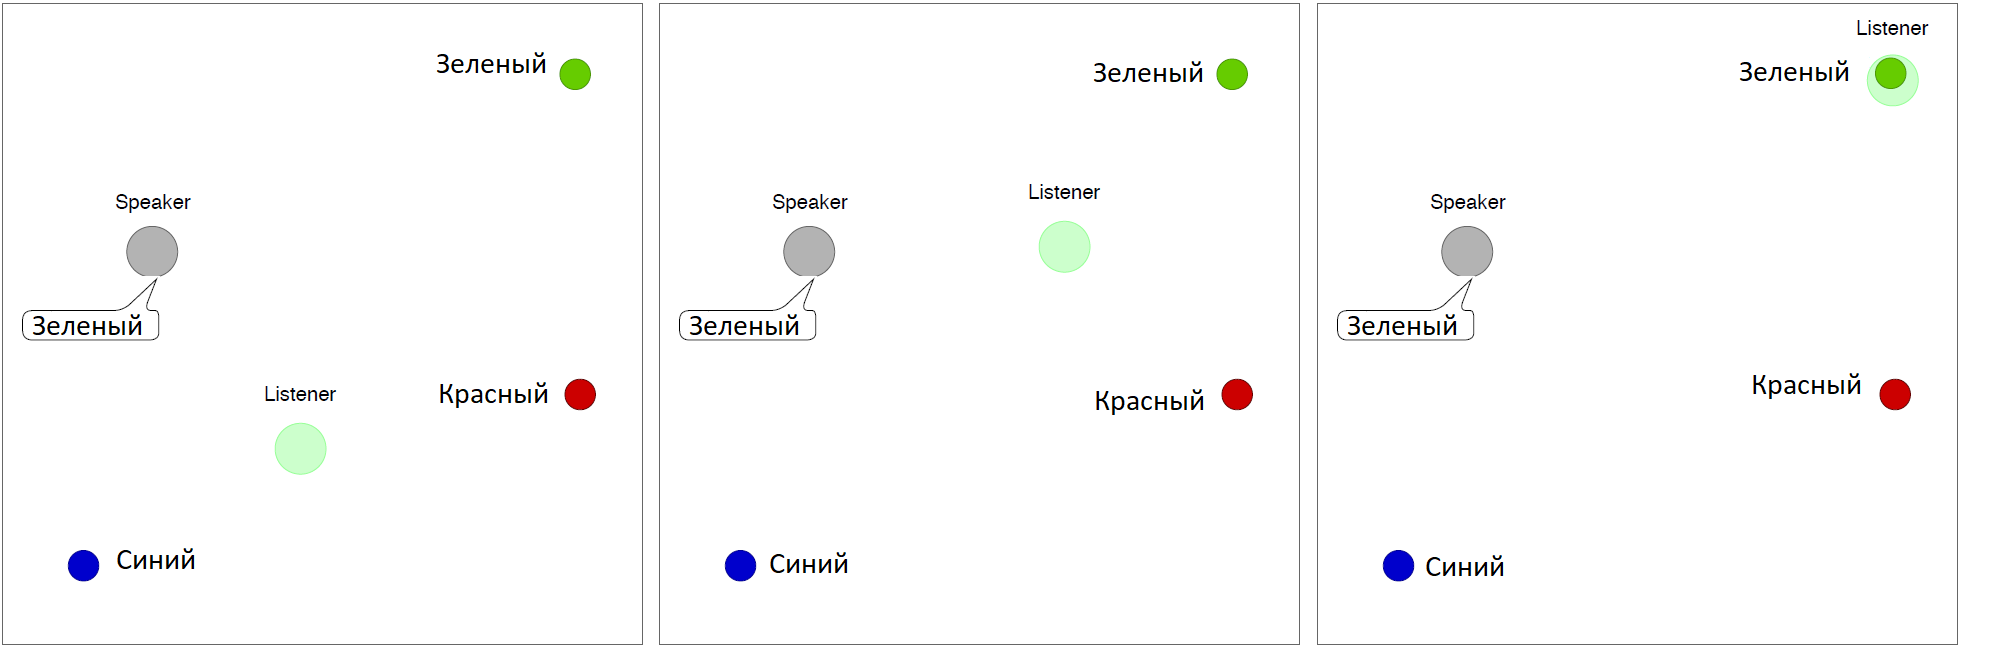
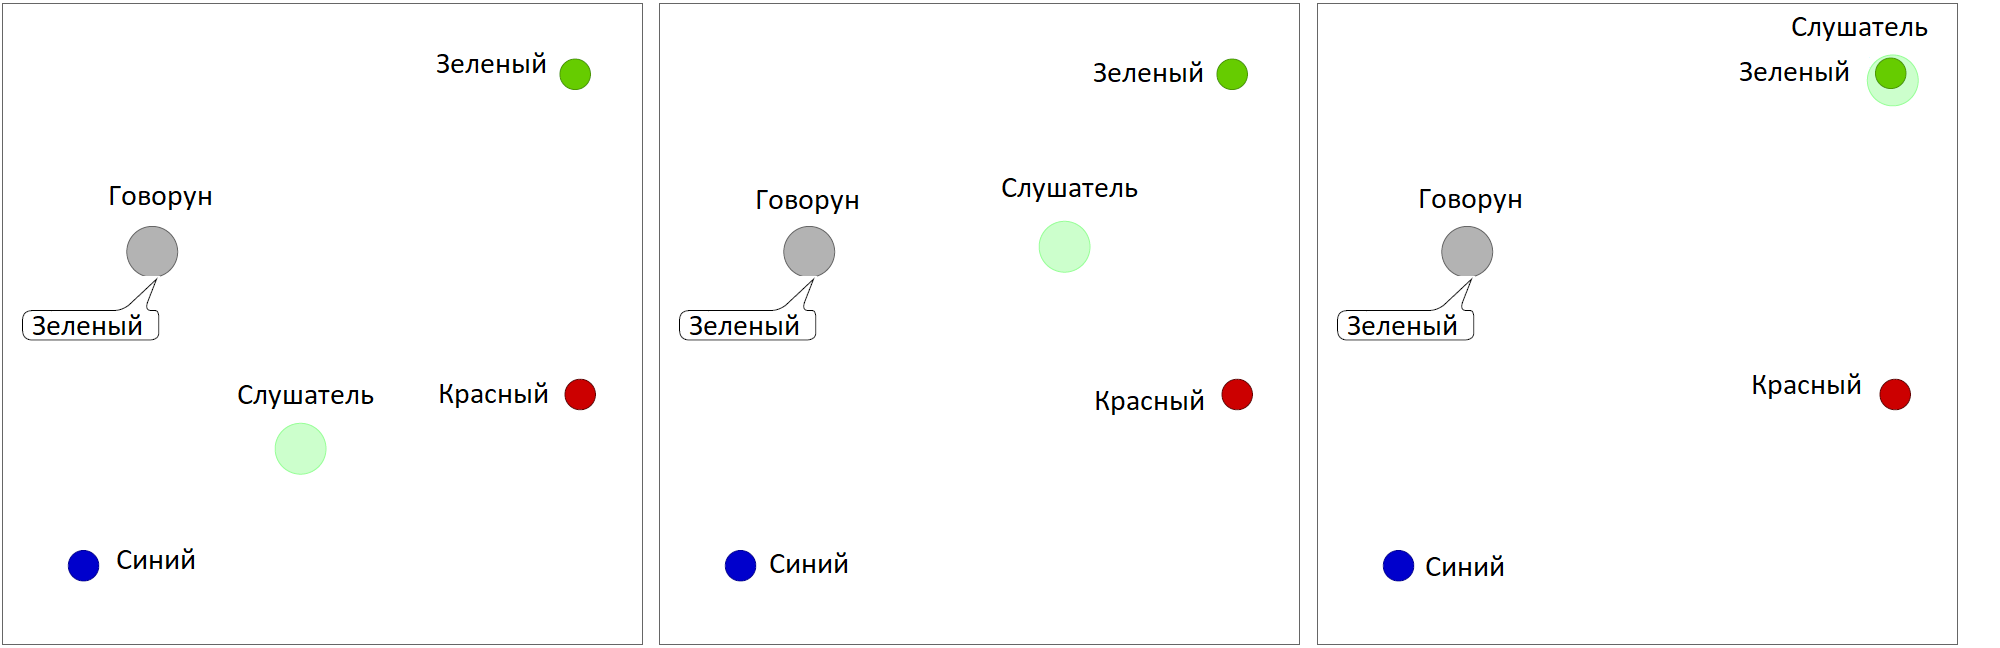
In progress

diff --git a/my_folder/chapter1/DL.tex b/my_folder/chapter1/DL.tex
@@ -35,7 +35,7 @@
 	\includegraphics [scale=0.80] {my_folder/images/ch1/DRL-flow.png}
 	\caption{Cравнение DRL и традиционной RL, где необходимо явно указать, какие действия производить в каких состояниях. Использование глубокой нейронной сети в DRL позволяет обучаться и принимать решения на основе необработанного сенсорного ввода.} 
 	\label{fig:DRL-flow}
-\end{figure}
+\end{figure} % TODO перевести
 
 Глубокие нейронные сети с несколькими слоями хороши для извлечения скрытых свойств \cite{7344858}. Каждый слой, решает свою собственную задачу. Узлы в каждом слое учатся на конкретных наборах свойств, которые приходят из предыдущего слоя. Теоретически чем глубже нейронная сеть, тем более сложны и абстрактны особенности, которые она может распознать, поскольку каждый нейрон агрегирует выводы из нейронов предыдущего слоя \cite{bengio2012representation}. Например, в задаче распознавания изображений вход представляет собой матрицу пикселей. Первый слой извлекает начальные объекты, такие как ребра из пикселей, затем следующий слой кодирует расположение краев и следующий слой распознает глаза, рот, уши, ноги, крылья, хвост и т. д. Наконец, последний слой распознает на изображении кошку, собаку или птицу. Таким образом, глубокие нейронные сети не нуждаются во вмешательстве людей, а сами изучают иерархию объектов.
 

diff --git a/my_folder/intro.tex b/my_folder/intro.tex
@@ -30,14 +30,14 @@
 
 \begin{figure}[ht!] 
 	\center
-	\includegraphics [scale=0.80] {my_folder/images/fig0-1-simple-speaker-listener.png}
+	\includegraphics [scale=0.41] {my_folder/images/fig0-1-simple-speaker-listener.png}
 	\caption{Сценарий 1. \textit{Simple Speaker Listener}. Скриншоты слева направо показывают этапы игрового эпизода. \textit{Говорун} (серый) выдает коммуникационное действие, представляющее «зелёный», а \textit{слушатель}, слушает сообщение \textit{говоруна} и направляется к цели.}
 	\label{fig:0-1-simple-speaker-listener}  
 \end{figure}
 
 \begin{figure}[ht!] 
 	\center
-	\includegraphics [scale=0.80] {my_folder/images/fig0-2-simple-reference.png}
+	\includegraphics [scale=0.38] {my_folder/images/fig0-2-simple-reference.png}
 	\caption{Сценарий 2: \textit{Simple Reference}. В этом эпизоде агент 0 (отображаемый в том же цвете, что и его целевой ориентир) выдает коммуникационное действие, представляющее «красный», и слушает агента 1. А агент 1 (отображается в том же цвете, что и его целевой ориентир), слушает и издает «зелёный» для Агента 0. Скриншоты слева направо показывают, как ведут себя два агента в соответствии с оптимальными политиками, слушая друг друга и перемещаясь к целям.}
 	\label{fig:0-1-simple-reference}  
 \end{figure}

diff --git a/my_folder/chapter1/RL.tex b/my_folder/chapter1/RL.tex
@@ -121,7 +121,7 @@ DQN подошел к проблеме низкоразмерных входны
 	\includegraphics [scale=0.60] {my_folder/images/ch1/RL-actor-critic.png}
 	\caption{{\itshape Актор} получает состояние из окружающей среды и реагирует на действие, {\itshape критик} получает состояние и награду и рассчитывает TD ошибку для обновления себя и {\itshape актора}. Основано на \cite{Arulkumaran_2017}}
 	\label{fig:ch1-RL-actor-critic}
-\end{figure}
+\end{figure} % TODO: перевести
 
 \subsubsection{Глубокий детерминированный градиент политики (DDPG)}
 
